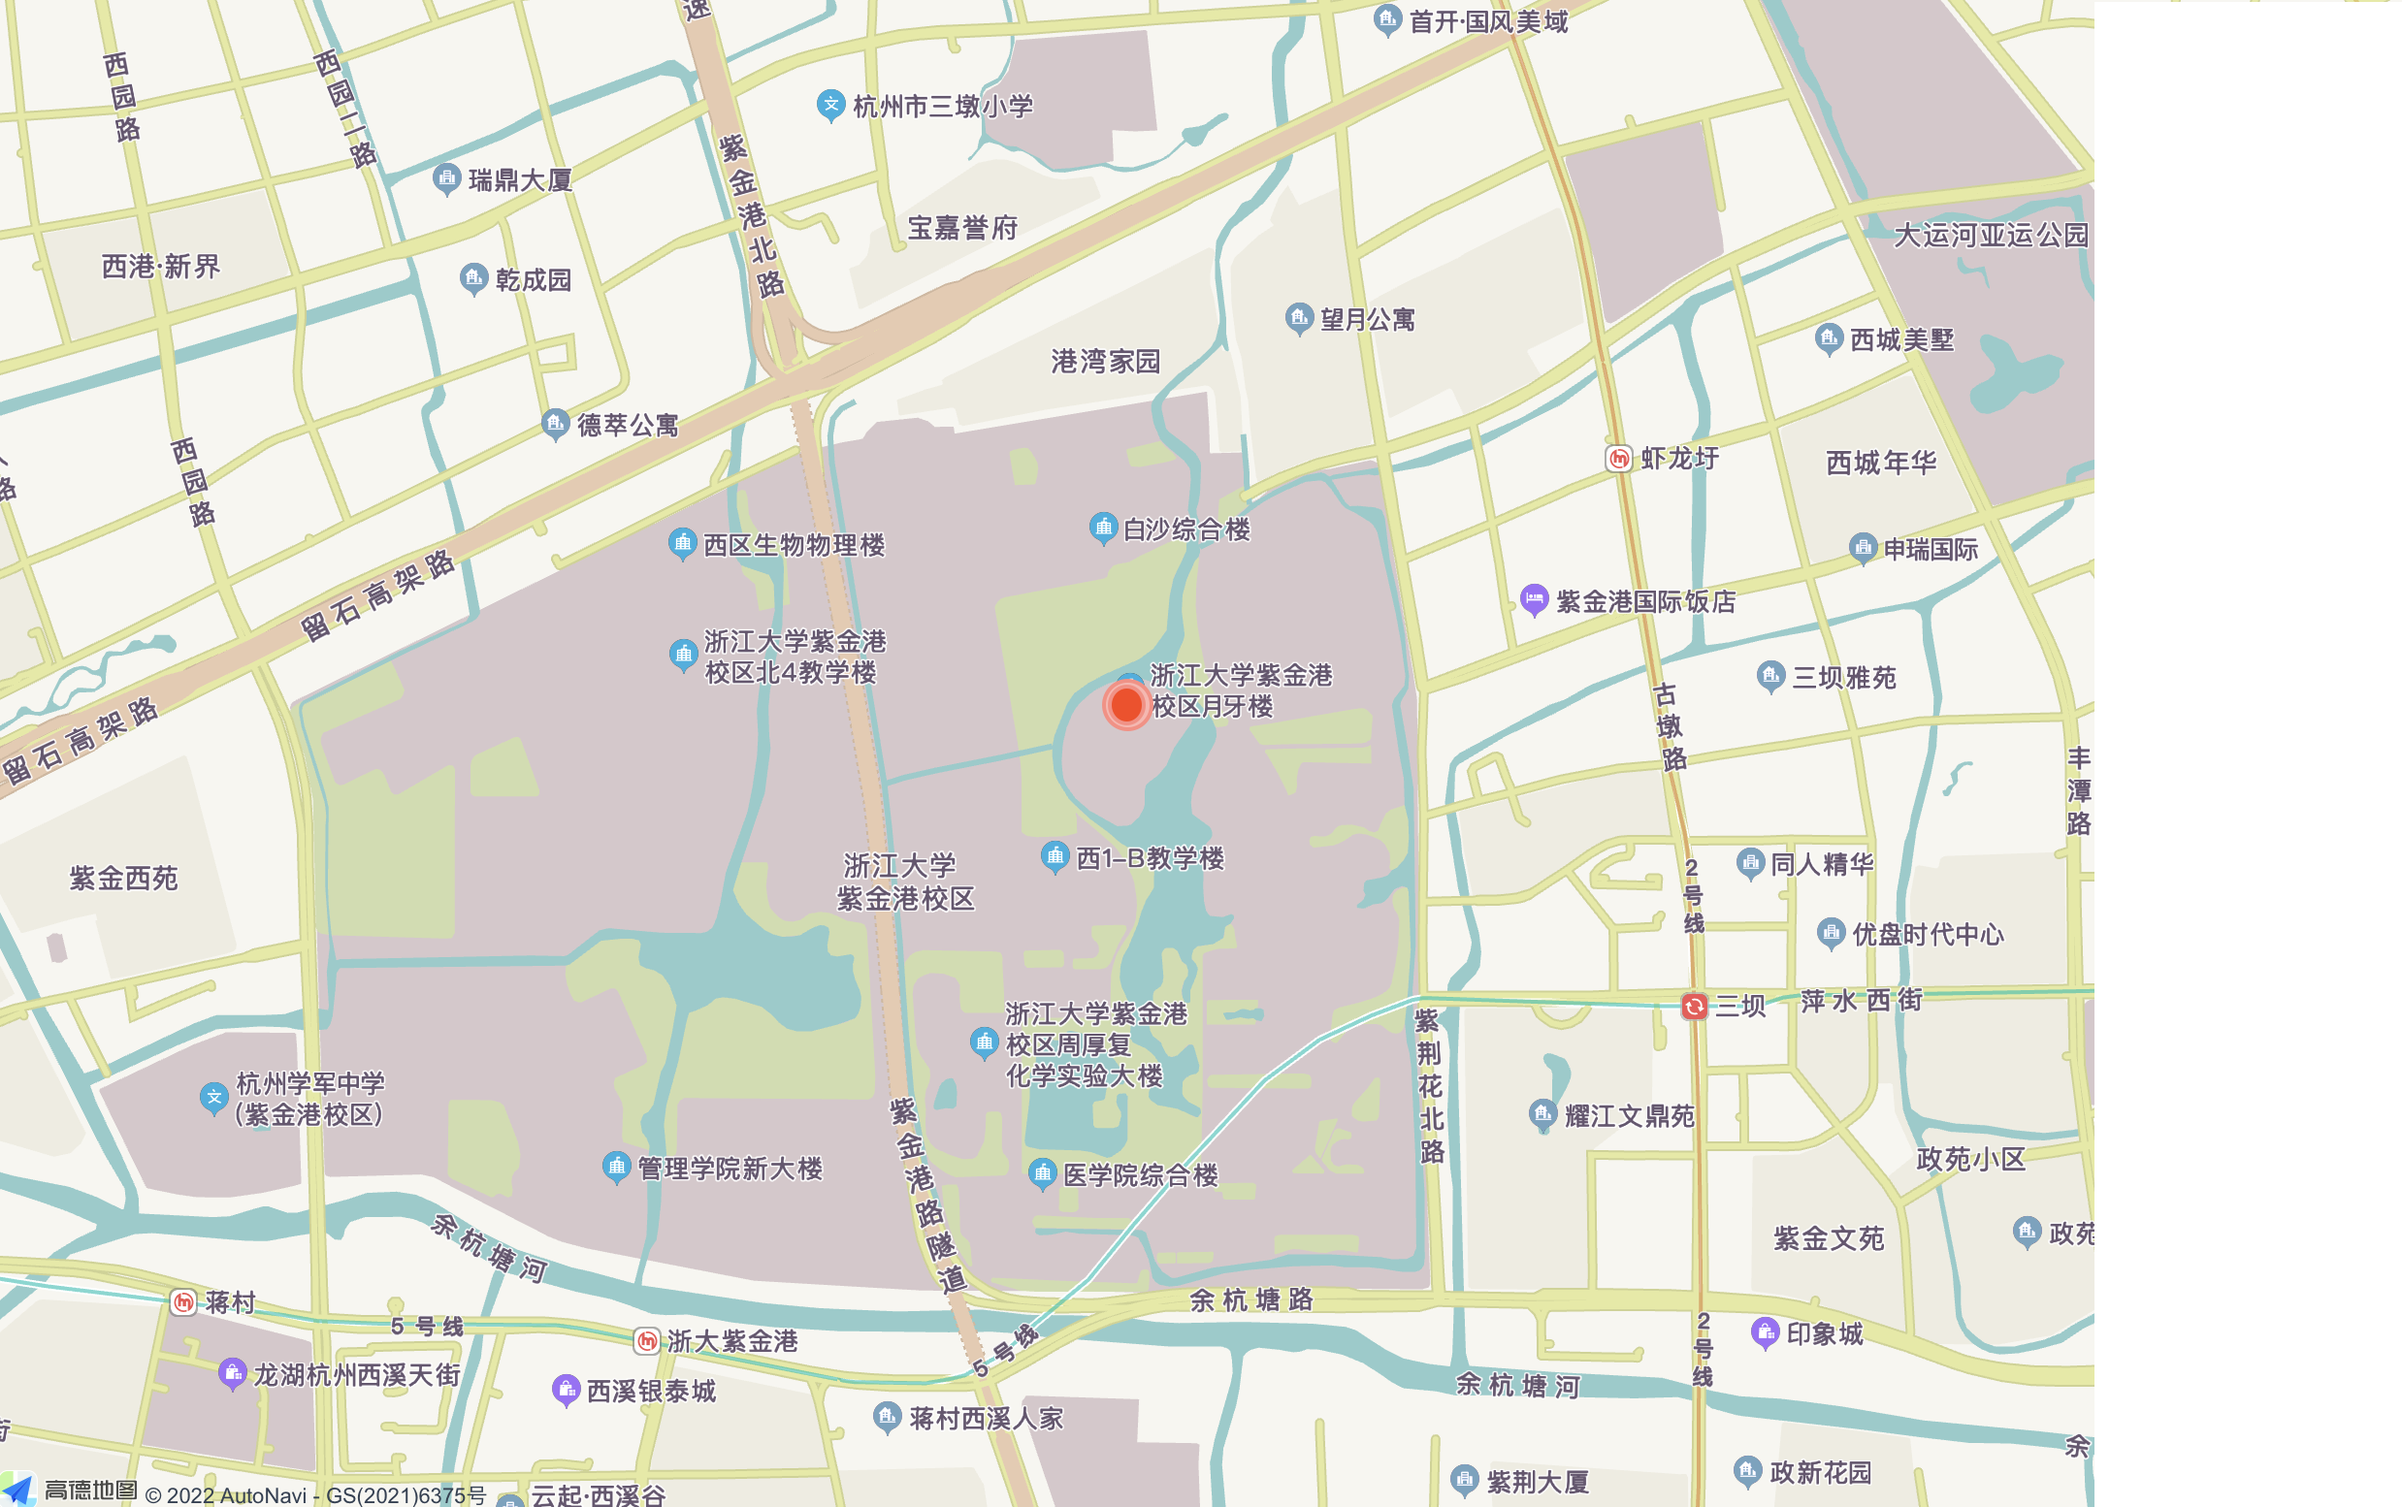
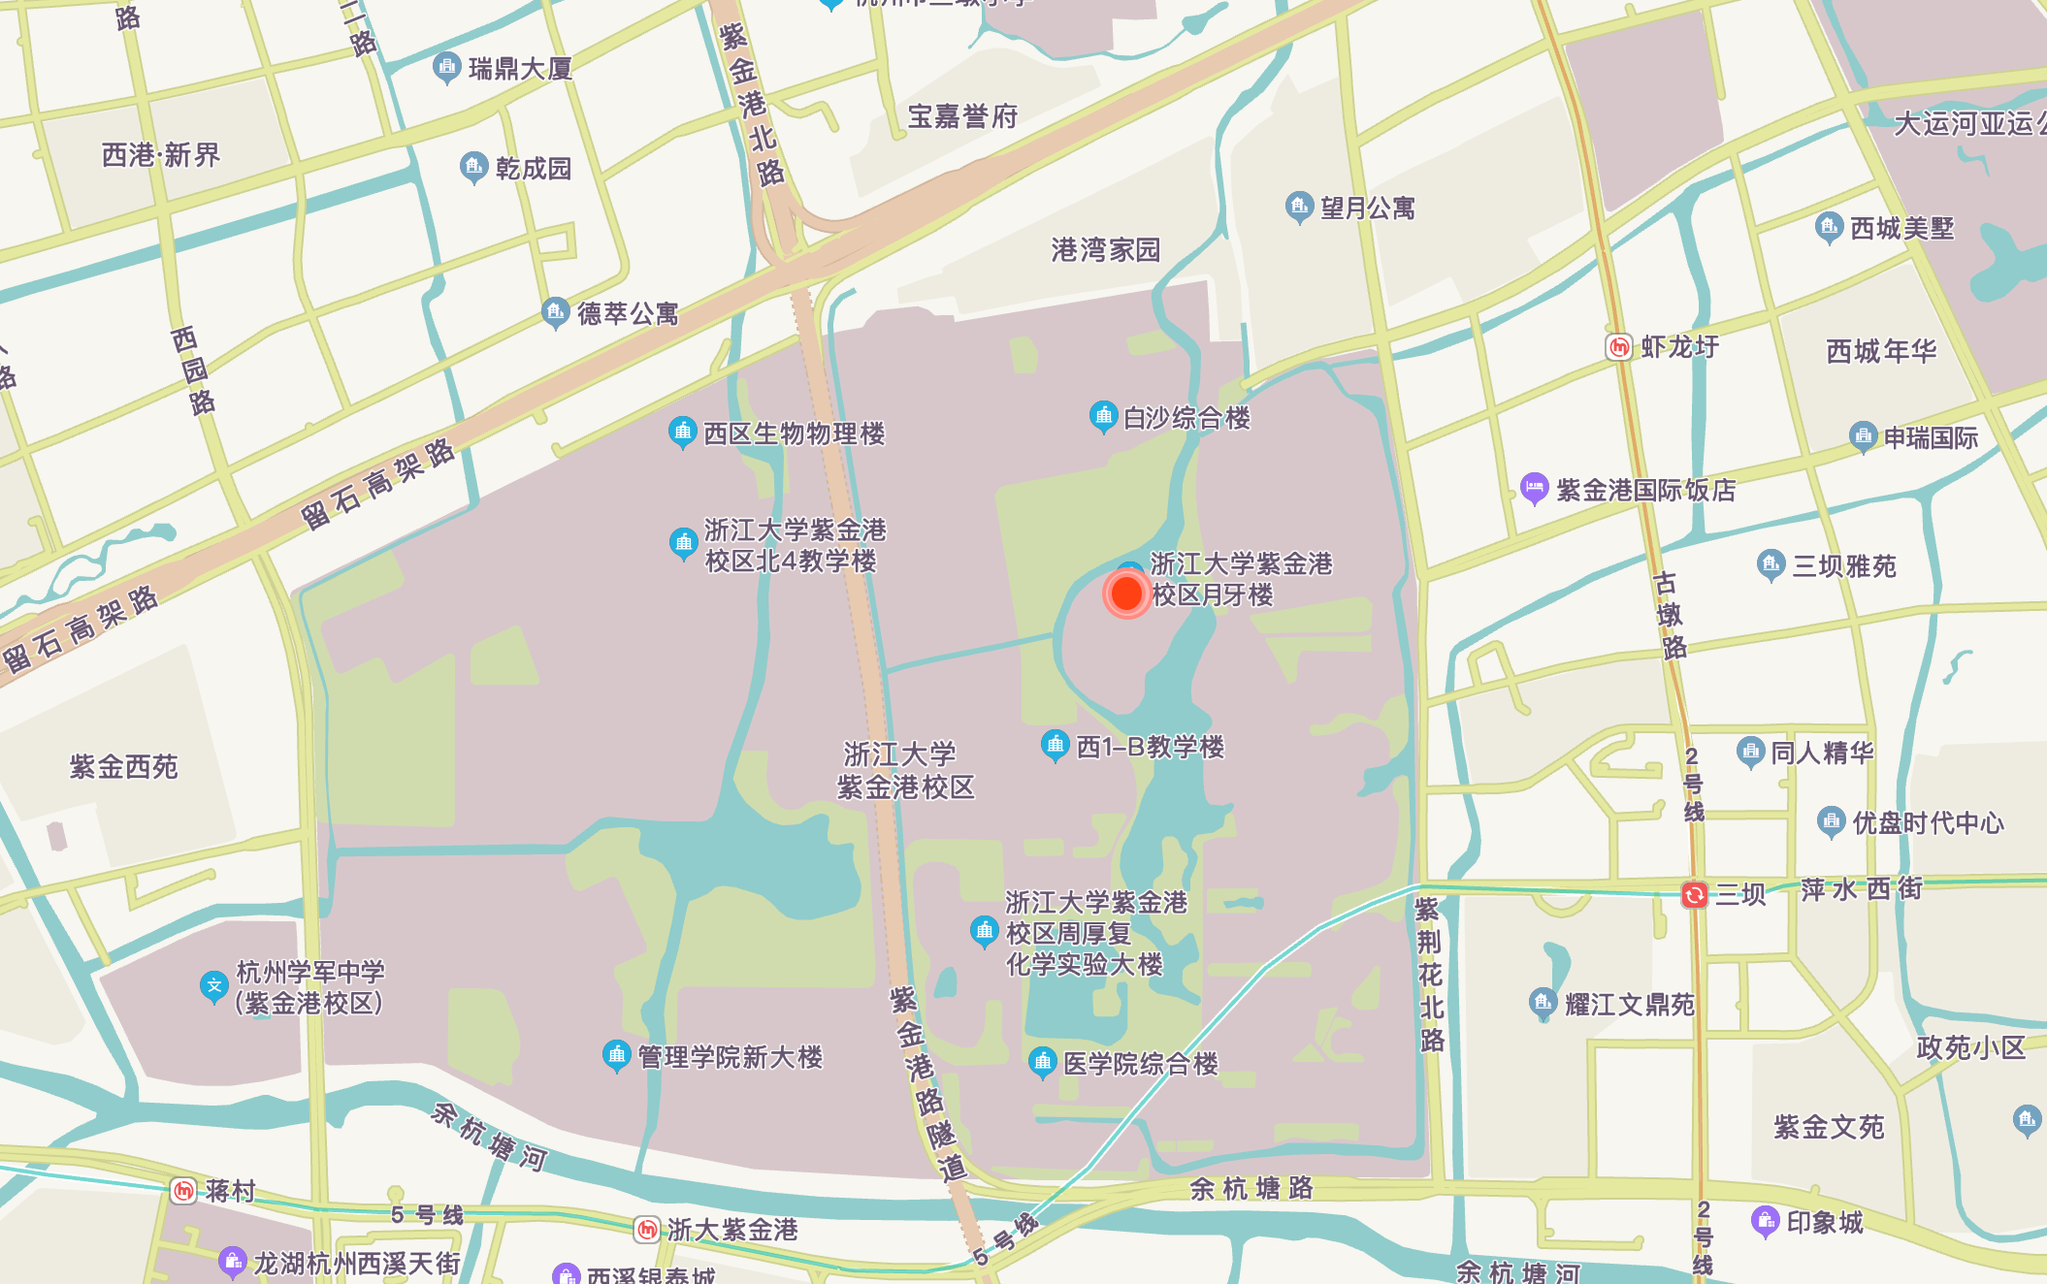
upload23-02-20

diff --git a/assets/scss/template.scss b/assets/scss/template.scss
@@ -7,6 +7,19 @@
   margin-bottom: 2rem;
   line-height: 2.25;
 }
+// #contact > div.container > div > div.section-heading.col-12.mb-3.text-center {
+//   text-align: center;
+//   background-color: rgb(231, 218, 203);
+//   line-height: 3.25;
+// }
+// .mb-0 h1 {
+//   text-align: center;
+//   background-color: rgb(231, 218, 203);
+//   font-size: 3.25rem;
+//   margin-top: -1rem;
+//   margin-bottom: 2rem;
+//   line-height: 3.25;
+// }
 
 // Center the CTA shortcode button
 .cta-group {

diff --git a/content/contact/contact.md b/content/contact/contact.md
@@ -16,37 +16,46 @@ content:
     postcode: 浙江大学紫金港校区月牙楼403
     country: 中国
     country_code: ZH-CN
-  coordinates:
-    latitude: '30.3073'
-    longitude: '120.0818'
+  # coordinates:
+  #   latitude: '30.3073'
+  #   longitude: '120.0818'
   autolink: true
 design:
   columns: '1'
 ---
 
+> ## 招收对象
 
-**招收对象**：本科实习生（平时、暑期均可）、硕士、博士、博士后、科研助理
++ 本科实习生（平时、暑期均可）、硕士、博士、博士后、科研助理
 
-**专业背景要求**：
+<br>
+
+> ## 专业背景要求
 
 + 设计类（工业设计、产品设计、数字媒体等）
 + 计算机类（计科、软工、电科等）
 + 其它（数学、有编程基础的学科）
 
-**重要招生日期**：
+<br>
+
+> ## 重要招生日期
 
 + 每年6月，实验室组织的暑期夏令营（大部分学生通过此渠道成为硕士、博士）
 + 每年9月，硕士、直博生推免（绝大部分学生源自此渠道）
 + 每年11月，普博报名（仅限有高水平论文发表的申请者）
 
-**招生注意事项**：
+<br>
+
+> ## 招生注意事项
 
 + 包括但不限于浙江大学 计算机学院、软件学院
 + 硕士专业可选报：设计学、工业设计工程、计算机科学、电子信息、人工智能（限特别优秀者）
 + 博士专业可选报：设计学、计算机科学与技术、电子信息
 + 双向了解：请有意加入本实验室的同学尽早联系，积累至少1-3个月的实习经历为宜。
 
-**博士后、科研助理招聘**：
+<br>
+
+> ## 博士后、科研助理招聘
 
 + 具体招聘信息可参见[此链接](https://job.cingta.com/detail/80273)（长期有效）
 + 欢迎有跨专业、跨领域想法、热爱科研的人员加入

diff --git a/content/authors/陈柳青/_index.md b/content/authors/陈柳青/_index.md
@@ -14,7 +14,7 @@ role: 博士生导师
 
 # Organizations/Affiliations
 organizations:
-  - name: 浙江大学
+  - name: 个人主页
     url: 'https://person.zju.edu.cn/chenlq/'
 
 # Short bio (displayed in user profile at end of posts)
@@ -71,18 +71,3 @@ user_groups:
 
 主要研究方向：智能设计，智能交互，设计大数据，创意设计，AR/VR，用户体验，Web前端/UI。
 感兴趣的技术：机器视觉（图像、视频的处理及生成），自然语言处理，数据挖掘及可视化，信息检索，知识工程。
-
-过去的研究项目：
-
-- B-Link: 基于大数据驱动的设计创意引擎 (www.b-link.uk)
-- 基于机器学习的创意设计的解析与生成（GANs等技术）
-- 视频理解系统（人脸识别、目标检测与追踪、动作识别、场景识别等技术）
-- 短视频智能生成技术（Deepfake）
-
-在研项目：
-
-- 用户意图主导的导购页面布局智能生成（主持，阿里巴巴合作项目，云栖大会2021主题演讲：链接）
-- UI 设计稿的智能检查与校正（主持，阿里巴巴合作项目）
-- 移动端AR导购的场景体验设计（主持，阿里巴巴合作项目）
-- 创意知识的发掘与应用（帝国理工合作项目）
-- 创意图像的智能生成与评估（利物浦大学合作项目）

diff --git a/content/contact/map.md b/content/contact/map.md
@@ -23,7 +23,7 @@ widget: blank
 headless: true
 
 # Order that this section appears on the page.
-weight: 10
+weight: 20
 
 title:
 subtitle:
@@ -31,7 +31,7 @@ subtitle:
 design:
   columns: '1'
   background:
-    image: yyl.jpg
+    image: map.png
     image_darken: 0
     image_parallax: false
     image_position: center

diff --git a/content/authors/zyh/_index.md b/content/authors/zyh/_index.md
@@ -10,7 +10,7 @@ authors:
 superuser: false
 
 # Role/position
-role: 本科生
+role: 2022级本科生
 
 # Organizations/Affiliations
 organizations:
@@ -65,3 +65,6 @@ organizations:
 user_groups:
   - Undergraduate Students
 ---
+22届 计科
+
+去向：复旦大学研究生

diff --git a/content/home/introduction.md b/content/home/introduction.md
@@ -6,7 +6,7 @@
 # widget: hero # See https://wowchemy.com/docs/page-builder/
 headless: true # This file represents a page section.
 weight: 20 # Order that this section will appear.
-title: 实验室介绍
+title: D3 Lab
 type: landing
 
 design:

diff --git a/content/home/project.md b/content/home/project.md
@@ -3,7 +3,7 @@ widget: pages
 headless: true
 weight: 40
 
-title: 项目
+title: 研究
 subtitle: 
 
 content:
@@ -25,5 +25,5 @@ design:
   #   3 = Card
   #   4 = Citation (publication only)
   view: 2
-  columns: '2'
+  columns: '1'
 ---

diff --git a/content/publication/journal-article-3/index.md b/content/publication/journal-article-3/index.md
@@ -10,6 +10,7 @@ authors:
   - Yuan Yin 
   - Elena Dieckmann
   - Ignacio Vilanova
+  - et al
 # author_notes:
 #   - 'Equal contribution'
 #   - 'Equal contribution'

diff --git a/content/authors/cy/_index.md b/content/authors/cy/_index.md
@@ -10,7 +10,7 @@ authors:
 superuser: false
 
 # Role/position
-role: 博士生
+role: 2022级博士生
 
 # Organizations/Affiliations
 organizations:

diff --git a/content/authors/cyn/_index.md b/content/authors/cyn/_index.md
@@ -10,7 +10,7 @@ authors:
 superuser: false
 
 # Role/position
-role: 博士生
+role: 2021级博士生
 
 # Organizations/Affiliations
 organizations:

diff --git a/content/authors/czb/_index.md b/content/authors/czb/_index.md
@@ -10,7 +10,7 @@ authors:
 superuser: false
 
 # Role/position
-role: 博士生
+role: 2021级博士生
 
 # Organizations/Affiliations
 organizations:

diff --git a/content/authors/jqz/_index.md b/content/authors/jqz/_index.md
@@ -10,7 +10,7 @@ authors:
 superuser: false
 
 # Role/position
-role: 博士生
+role: 2021级博士生
 
 # Organizations/Affiliations
 organizations:
